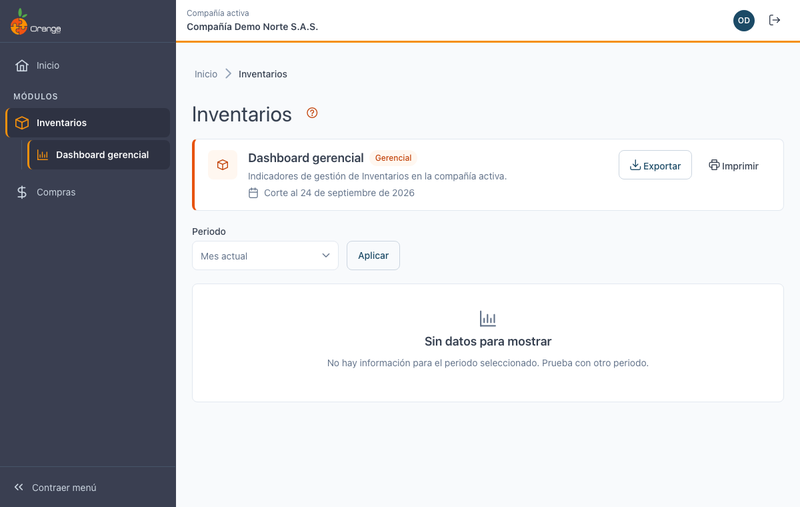
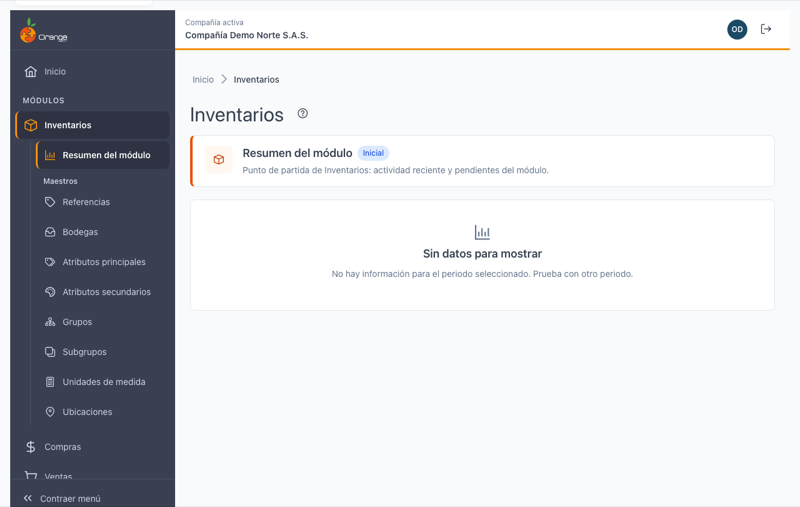
docs(inventarios): manual del dashboard gerencial V2026 y actualización del dashboard inicial

diff --git a/v2026/inventarios/dashboard-gerencial.md b/v2026/inventarios/dashboard-gerencial.md
@@ -1,0 +1,308 @@
+[Regresar a Inventarios](readme.md)
+
+---
+
+# 📈 Dashboard gerencial de Inventarios
+
+![Static Badge](https://img.shields.io/badge/Tipo-Dashboard-red)
+![Static Badge](https://img.shields.io/badge/Module-Inventarios-orange)
+![Static Badge](https://img.shields.io/badge/Opcion-DashboardGerencial-green)
+![Static Badge](https://img.shields.io/badge/Version-V2026-purple)
+
+![Static Badge](https://img.shields.io/badge/Actualizacion-20260929-yellow)
+
+---
+
+## 📋 Descripción
+
+El **dashboard gerencial** muestra cuánto inventario tiene la compañía, dónde está y cuánto vale, **con corte al día anterior**. Reemplaza al reporte **Reportes Gerenciales › Inventarios** de la versión anterior de OrangeERP.
+
+En esta pantalla puede:
+
+- Ver cuatro **indicadores**: valor total, unidades, bodegas y referencias con saldo.
+- Analizar el inventario **por bodega, grupo y subgrupo** con rankings de barras, y profundizar con un clic (*drill-down*).
+- Consultar el **detalle** de cada combinación (bodega, referencia y variante) con su saldo y su valor.
+- **Exportar** ese detalle a Excel.
+
+Es solo de consulta: no modifica el inventario.
+
+> 💡 Si su perfil no tiene el reporte gerencial, al entrar a Inventarios verá el [Resumen del módulo](dashboard.md) en lugar de este dashboard.
+
+---
+
+## 🎯 Acceso
+
+1. En el menú principal, haga clic en **Inventarios**.
+2. Se abre el dashboard (en el menú aparece como **Dashboard gerencial**, la primera opción del módulo).
+
+---
+
+## 🖥 Pantalla principal
+
+![Dashboard gerencial de Inventarios](recursos/img/dashboard-gerencial/01-dashboard-gerencial.png)
+
+| Elemento | Para qué sirve |
+|----------|----------------|
+| **?** (junto al título) | Abre esta ayuda en un panel lateral, sin salir de la pantalla. |
+| **Información con corte al …** | La fecha de corte de lo que está viendo. Si es ayer, dice **(día anterior)**. |
+| **Calculado a las HH:MM** | La hora en que se calculó la información que ve. Ver *La hora de cálculo y Actualizar* más abajo. |
+| **Actualizar** | Vuelve a calcular la información con los movimientos registrados hasta ahora. |
+| **Exportar** | Descarga el detalle a Excel. Ver *Exportar a Excel* más abajo. |
+| **Fecha de corte**, **Bodega** y **Aplicar** | Filtros. Ver *Filtros* más abajo. |
+| **Indicadores** | Valor total, Unidades, Bodegas y Referencias. |
+| **Valor $ / Unidades** | Cambia la métrica de los rankings. |
+| **Bodega**, **Grupo**, **Subgrupo** | Rankings de barras con *drill-down*. |
+| **Detalle de combinaciones** | La tabla con cada combinación con saldo. |
+
+---
+
+## 📅 Fecha de corte: el día anterior
+
+Al entrar, el dashboard muestra la información **con corte al día anterior** (ayer, hasta el final del día) para todas las bodegas, sin que tenga que hacer nada. La banda de arriba lo dice: *"Información con corte al 28 de septiembre de 2026 (día anterior)"*.
+
+**¿Por qué ayer y no hoy?** El día anterior ya cerró: sus cifras no cambian mientras usted las mira. El día en curso cambia con cada venta, compra o traslado que se registra.
+
+"Ayer" y "hoy" se cuentan con la fecha de la compañía, no con la hora de su equipo: si trabaja desde otro país o de madrugada, el corte sigue siendo el día anterior de la compañía.
+
+### Ver el día en curso
+
+Puede elegir la fecha de **hoy** en **Fecha de corte** y hacer clic en **Aplicar**. Verá este aviso bajo los filtros:
+
+![Aviso del día en curso](recursos/img/dashboard-gerencial/02-dia-en-curso.png)
+
+> ⚠ *"Estás viendo el día en curso: la información puede cambiar mientras se registran movimientos. Pulsa Actualizar para recalcular."*
+
+La información del día en curso se recalcula sola cada **10 minutos**; para ver lo último en ese momento, haga clic en **Actualizar**. Al volver a una fecha pasada, el aviso desaparece.
+
+---
+
+## 🔎 Filtros
+
+| Filtro | Qué hace |
+|--------|----------|
+| **Fecha de corte** | Obligatoria. Por defecto, el día anterior. Puede elegir cualquier fecha hasta hoy; las fechas futuras no se pueden elegir. Si la borra, verá *"La fecha de corte es obligatoria"* y **Aplicar** queda deshabilitado. |
+| **Bodega** | Opcional. Vacío = **Todas las bodegas**. Escriba parte del código o del nombre para buscarla; se muestra como *Código - Nombre*. Con la **✕** vuelve a todas. |
+
+Los cambios en los filtros **no se aplican hasta hacer clic en Aplicar**. Al aplicar se limpian la selección de los rankings, la búsqueda del detalle y los rankings expandidos.
+
+> 💡 **Aplicar no vuelve a calcular.** Si la información de esa fecha ya estaba calculada, la usa tal cual (verá la misma hora en *Calculado a las*). Para recalcular, use **Actualizar**. Cambiar solo la bodega nunca recalcula.
+
+Si no hay existencias a la fecha y bodega elegidas, verá **"Sin inventario a la fecha de corte"**, con los filtros disponibles para cambiarlos:
+
+![Sin inventario a la fecha de corte](recursos/img/dashboard-gerencial/09-sin-inventario.png)
+
+---
+
+## 🕒 La hora de cálculo y Actualizar
+
+Calcular el inventario de toda la compañía puede tomar unos segundos. Por eso OrangeERP **calcula una vez por fecha de corte** y guarda el resultado: los demás usuarios de la compañía que consultan la misma fecha, y usted mismo al navegar por los rankings, el detalle o al exportar, usan ese mismo cálculo sin esperar.
+
+**Calculado a las HH:MM** indica cuándo se hizo ese cálculo. Puede ser anterior a la hora en que usted entró: por ejemplo, si otro usuario abrió el dashboard a las 7:15, usted verá *"Calculado a las 07:15"* aunque entre a las 10:42.
+
+| Fecha de corte | Cuándo se vuelve a calcular solo |
+|----------------|----------------------------------|
+| **Ayer u otra fecha pasada** | Como máximo **una vez al día**: el cálculo vale hasta el final del día siguiente. |
+| **Hoy** | Cada **10 minutos**. |
+
+### Documentos registrados con fecha pasada
+
+Un documento que se registra **con una fecha anterior** (por ejemplo, hoy se registra una compra con fecha de ayer) cambia el inventario de esa fecha. Si la información de esa fecha ya estaba calculada, **ese documento no aparece** en el dashboard hasta que:
+
+- haga clic en **Actualizar**, o
+- el cálculo se renueve solo (según la tabla anterior).
+
+Si sabe que se registraron documentos con fecha pasada, haga clic en **Actualizar** antes de revisar las cifras.
+
+### Actualizar
+
+![Actualizando la información](recursos/img/dashboard-gerencial/03-actualizando.png)
+
+1. Haga clic en **Actualizar** (en la banda de arriba).
+2. El botón muestra que está trabajando. Mientras tanto sigue viendo la información anterior; si tarda, aparece *"Calculando el inventario al …; puede tardar unos segundos"*.
+3. Al terminar, *Calculado a las* muestra la hora nueva y todo se recarga **sin perder** los filtros, la selección de los rankings, la búsqueda ni el orden del detalle.
+
+> ℹ Si alguien actualizó esa misma fecha hace **menos de un minuto**, se usa ese cálculo y la hora no cambia. Así, varios clics seguidos no recargan el sistema.
+
+> ℹ Esta pantalla **no se actualiza en vivo**: no verá los movimientos nuevos hasta que la información se recalcule. Si mientras navega la información se recalcula (por ejemplo, porque otro usuario hizo clic en Actualizar), los indicadores y los rankings se recargan solos para que todo corresponda al mismo cálculo.
+
+---
+
+## 📊 Indicadores
+
+| Indicador | Qué muestra |
+|-----------|-------------|
+| **Valor total** | Suma del valor (saldo × costo promedio) de todas las combinaciones con saldo, en pesos sin decimales. |
+| **Unidades** | Suma de los saldos. |
+| **Bodegas** | Cuántas bodegas tienen saldo. |
+| **Referencias** | Cuántas referencias tienen saldo. |
+
+Los indicadores responden a la **fecha de corte** y a la **bodega** del filtro, **no** a la selección de los rankings: al hacer clic en una barra, los indicadores no cambian.
+
+> ℹ Si hay **saldos negativos** (se vendió o trasladó más de lo que había registrado), se suman tal cual: restan del valor total y de las unidades.
+
+---
+
+## 📶 Rankings por bodega, grupo y subgrupo
+
+![Rankings por bodega, grupo y subgrupo](recursos/img/dashboard-gerencial/04-rankings.png)
+
+Cada panel muestra una barra por bodega, grupo o subgrupo (*Código - Nombre*), ordenadas de mayor a menor. El largo de la barra es proporcional a la mayor del panel.
+
+- Se ven las **10 primeras**. Con **Ver detalle (+N)** se ven todas; con **Ver menos**, vuelven las 10.
+- Una barra con valor **negativo** muestra el signo menos y sin relleno.
+- Si un panel no tiene datos para la selección, dice **"Sin datos"**.
+
+### Métrica: Valor $ o Unidades
+
+Con **Valor $** (por defecto) las barras se ordenan por valor; con **Unidades**, por cantidad. Cambiar la métrica es inmediato y conserva la selección.
+
+![Rankings por unidades](recursos/img/dashboard-gerencial/06-metrica-unidades.png)
+
+### Profundizar (*drill-down*)
+
+![Selección de bodega, grupo y subgrupo](recursos/img/dashboard-gerencial/05-drill-down-subgrupo.png)
+
+1. Haga clic en una **bodega**: el panel **Grupo** y el panel **Subgrupo** muestran solo lo de esa bodega, y el detalle se filtra.
+2. Haga clic en un **grupo**: el panel **Subgrupo** muestra los subgrupos de ese grupo, y el detalle se filtra.
+3. Haga clic en un **subgrupo**: el detalle muestra solo ese subgrupo.
+
+La selección aparece arriba de los paneles como etiquetas, por ejemplo **Bodega: 01 - Bodega principal ✕**.
+
+- Un **segundo clic** en la barra seleccionada la deselecciona.
+- La **✕** de una etiqueta quita ese nivel **y los siguientes** (quitar la bodega quita también el grupo y el subgrupo).
+- Los subtítulos de cada panel indican qué está mostrando (por ejemplo *Todas las bodegas* o *Seleccione bodega y grupo*).
+
+Profundizar **no recalcula** la información: usa el mismo cálculo (misma hora en *Calculado a las*).
+
+También puede usar el teclado: **Tab** para ir de barra en barra y **Enter** o **Espacio** para seleccionarla.
+
+---
+
+## 📋 Detalle de combinaciones
+
+![Detalle de combinaciones con búsqueda](recursos/img/dashboard-gerencial/07-detalle-busqueda.png)
+
+Una fila por cada **bodega + referencia + variante** con saldo distinto de cero, filtrada por la bodega del filtro y por la selección de los rankings.
+
+| Columna | Qué muestra |
+|---------|-------------|
+| **Bodega**, **Grupo**, **Subgrupo** | *Código - Nombre*. |
+| **Referencia**, **Nombre** | Código y nombre de la referencia. |
+| **At. principal**, **At. secundario** | Los atributos de la variante (por ejemplo talla y color). |
+| **Saldo** | Existencias a la fecha de corte, con hasta 2 decimales (0,4 se ve como 0,4). |
+| **Valor** | Saldo × costo promedio, en pesos. |
+
+- **Buscar**: escriba al menos **2 caracteres**. Encuentra la referencia si su **código contiene** el texto o si **cada palabra** aparece en el nombre, sin importar mayúsculas ni tildes: *"camiseta cuello"* encuentra *"Camiseta básica cuello redondo"*. Si no hay coincidencias, use **Limpiar búsqueda**.
+- **Ordenar**: clic en un encabezado (ascendente, y un segundo clic descendente). Los atributos no se ordenan. Por defecto: bodega, grupo, subgrupo y referencia.
+- **Paginar**: 20 filas por página (puede elegir 10, 20, 50 o 100).
+
+> 📘 La búsqueda, el orden y la paginación funcionan como en el resto de las tablas: ver [Manejo general de la información](../Generales/manejo-general-informacion.md).
+
+---
+
+## 📤 Exportar a Excel
+
+Haga clic en **Exportar** (en la banda de arriba). Se descarga `inventario-gerencial_AAAA-MM-DD.xlsx` (con la fecha de corte), hoja **Detalle**, con **lo que está viendo en el detalle**, completo y no solo la página visible:
+
+- la fecha de corte y la bodega aplicadas,
+- la selección de los rankings,
+- la búsqueda y el orden del detalle.
+
+El archivo trae el código y el nombre por separado (bodega, grupo, subgrupo, referencia y atributos) y **Saldo**, **Costo unitario** y **Valor** como números, listos para sumar o filtrar en Excel. Usa el mismo cálculo que la pantalla (no recalcula).
+
+Se pueden exportar hasta **50.000 combinaciones**. Si el detalle tiene más, verá:
+
+![Demasiadas combinaciones para exportar](recursos/img/dashboard-gerencial/08-exportar-demasiado.png)
+
+> *"Hay más de 50.000 combinaciones; acota con la bodega o la selección"*
+
+Elija una bodega en el filtro, seleccione una bodega, grupo o subgrupo en los rankings, o busque en el detalle, y exporte de nuevo.
+
+---
+
+## 🔒 Permisos
+
+| Para… | Su perfil necesita |
+|-------|--------------------|
+| Ver este dashboard | Permiso de **Consultar** sobre **Reportes Gerenciales**, su grupo de reportes y la opción **Inventarios** (además del acceso al módulo Inventarios). Sin ese permiso, verá el [Resumen del módulo](dashboard.md). |
+| **Actualizar** | El mismo permiso de consultar. |
+| **Exportar** | Además, el permiso de **Exportar** sobre la opción **Inventarios** de Reportes Gerenciales. Sin él, el botón **Exportar** no aparece. |
+
+El filtro **Bodega** muestra todas las bodegas de la compañía aunque su perfil no tenga acceso a la pantalla de Bodegas.
+
+Si su perfil perdió el permiso, verá **"No tienes acceso a este dashboard"**. Pida al administrador que lo revise.
+
+> 🗂 Cada consulta (al entrar, al Aplicar, al Actualizar) queda registrada en la bitácora de actividad con el usuario, la fecha de corte y la bodega consultadas.
+
+---
+
+## 🔀 Diferencias con el Reporte Gerencial anterior
+
+Si compara con el reporte **Reportes Gerenciales › Inventarios** de la versión anterior, verá algunas diferencias. Son intencionales:
+
+### El valor usa el costo promedio móvil (cuadra con contabilidad)
+
+El **valor** de cada combinación es **saldo × costo promedio móvil**: cada vez que entra mercancía, el costo se recalcula ponderando **lo que queda en existencia** con lo que entra. Es el mismo costo que:
+
+- se usa para contabilizar el **costo de ventas** de cada venta, y
+- muestra la **pestaña Inventario** de cada referencia (ver [Detalle de una referencia](maestros/referencias-detalle.md), pestaña **Inventario**).
+
+El reporte anterior promediaba **todas las compras de la historia**, incluidas las unidades que ya se vendieron. Por eso daba **otro valor** (en general, menor cuando los precios de compra suben) que no cuadraba con la contabilidad.
+
+**Ejemplo (ficticio):** de un producto se compraron 24 unidades a $25.000 y se vendieron 20; quedan 4. Luego entran 5 unidades a $150.000.
+
+| | Cálculo | Costo unitario |
+|---|---|---|
+| **Este dashboard** (lo que hay en bodega: 4 a $25.000 y 5 a $150.000) | (4 × 25.000 + 5 × 150.000) ÷ 9 | **$94.444,44** |
+| **Reporte anterior** (todas las compras, aunque ya se vendieron) | (24 × 25.000 + 5 × 150.000) ÷ 29 | $46.552 |
+
+Además, el costo se muestra con 2 decimales (el reporte anterior lo redondeaba a pesos).
+
+### Entradas cuando el saldo estaba en cero o negativo
+
+Cuando se vende sin existencias registradas (el saldo queda en cero o negativo) y luego entra mercancía, la fórmula del costo promedio de la versión anterior podía dar **costos negativos o absurdos**. En V2026, **si el saldo antes de una entrada es cero o negativo, el costo pasa a ser el de esa entrada**, que es la regla estándar del inventario permanente.
+
+**Ejemplo (ficticio):** se vendieron 3 unidades sin existencias (saldo −3) y luego entran 2 a $260.000. La versión anterior calculaba un costo de −$520.000; V2026 toma $260.000.
+
+> ⚠ En esos casos (pocos productos, los que tuvieron saldo negativo), el costo de V2026 puede **no coincidir** con el que la versión anterior ya dejó contabilizado en esos movimientos. V2026 no modifica la contabilidad ya registrada. La pestaña Inventario de las referencias usa la misma regla, así que ambas pantallas muestran el mismo costo.
+
+### Otras diferencias
+
+| Tema | Reporte anterior | Este dashboard |
+|------|------------------|----------------|
+| Fecha al entrar | Hoy (hora del servidor) | **Ayer**, con la fecha de la compañía, y aviso si elige hoy |
+| Fechas futuras | Se aceptaban | No se pueden elegir |
+| Clic en un subgrupo | No hacía nada | Filtra el detalle |
+| Saldos con decimales | Se veían como 0 | Se ven con hasta 2 decimales |
+| Bodegas de otra compañía | Podían aparecer | Solo las de la compañía |
+| Existencias | Podían faltar algunas, según cortes guardados que no estaban al día | Se calculan con todos los movimientos hasta la fecha de corte |
+| Exportar | No existía | Excel del detalle, hasta 50.000 combinaciones |
+| Imprimir | — | No disponible |
+
+---
+
+## ❓ Preguntas frecuentes
+
+**¿Por qué no veo un documento que acabo de registrar?**
+Si el documento es de **hoy**, elija la fecha de hoy y haga clic en **Actualizar**. Si tiene **fecha pasada** (dentro del corte que está viendo), haga clic en **Actualizar**: el cálculo guardado no lo incluía. Ver *Documentos registrados con fecha pasada* más arriba.
+
+**¿Por qué "Calculado a las" muestra una hora anterior a la que entré?**
+Porque usa el cálculo que ya estaba hecho para esa fecha (quizá lo pidió otro usuario). Si necesita lo más reciente, haga clic en **Actualizar**.
+
+**Hice clic en Actualizar y la hora no cambió.**
+Alguien acababa de recalcular esa fecha hace menos de un minuto; se usó ese cálculo.
+
+**La carga tarda y dice "Calculando el inventario…".**
+Es el primer cálculo de esa fecha. Puede tardar unos segundos; las siguientes consultas de esa fecha son inmediatas.
+
+**¿Por qué el valor no coincide con el reporte gerencial anterior?**
+Porque este dashboard usa el costo promedio móvil, el mismo de la contabilidad y de la pestaña Inventario de las referencias. Ver *Diferencias con el Reporte Gerencial anterior* más arriba.
+
+**Al hacer clic en una bodega, los indicadores no cambian.**
+Es así a propósito: los indicadores responden a los filtros (fecha y bodega). Para ver los indicadores de una sola bodega, elíjala en el filtro **Bodega** y haga clic en **Aplicar**.
+
+**No veo el botón Exportar.**
+Su perfil no tiene el permiso de exportar sobre el reporte gerencial de Inventarios.
+
+**Una sección dice "No se pudo cargar esta sección."**
+Haga clic en **Reintentar** dentro de esa sección; el resto del dashboard sigue funcionando. Si todo el dashboard muestra *"No se pudo cargar el dashboard"*, use **Reintentar**.

diff --git a/v2026/inventarios/dashboard.md b/v2026/inventarios/dashboard.md
@@ -7,7 +7,7 @@
 ![Static Badge](https://img.shields.io/badge/Module-Inventarios-orange)
 ![Static Badge](https://img.shields.io/badge/Version-V2026-purple)
 
-![Static Badge](https://img.shields.io/badge/Actualizacion-20260925-yellow)
+![Static Badge](https://img.shields.io/badge/Actualizacion-20260929-yellow)
 
 ---
 
@@ -15,20 +15,22 @@
 
 Es la página de entrada del módulo **Inventarios**: al hacer clic en **Inventarios** en el menú, llega aquí.
 
-![Dashboard de Inventarios](recursos/img/dashboard/01-dashboard.png)
+![Resumen del módulo Inventarios](recursos/img/dashboard/01-dashboard.png)
 
 Según su perfil verá:
 
 | Tipo | Cuándo | Qué muestra |
 |------|--------|-------------|
-| **Dashboard gerencial** | Su perfil tiene el reporte gerencial de Inventarios. | Indicadores de gestión de Inventarios. |
-| **Resumen del módulo** (inicial) | No tiene el reporte gerencial. | Resumen operativo del módulo. |
+| **Dashboard gerencial** | Su perfil tiene permiso de consultar **Reportes Gerenciales › Inventarios**. | Valor, unidades, rankings por bodega, grupo y subgrupo, y detalle del inventario con corte al día anterior. Ver [Dashboard gerencial de Inventarios](dashboard-gerencial.md). |
+| **Resumen del módulo** (inicial) | No tiene ese permiso. | Resumen operativo del módulo (esta página). |
+
+La imagen de arriba es el **Resumen del módulo**.
 
 ---
 
-## 🚧 Estado actual
+## 🚧 Estado actual del Resumen del módulo
 
-En esta versión el dashboard muestra la franja del módulo (nombre, tipo y fecha de corte) y el mensaje **"Sin datos para mostrar"**: los indicadores y gráficas se habilitarán en próximas versiones. Los botones **Exportar** e **Imprimir** aparecen según sus permisos y se activan cuando haya datos.
+En esta versión el Resumen del módulo muestra la franja del módulo (nombre y tipo **Inicial**) y el mensaje **"Sin datos para mostrar"**: sus indicadores y gráficas se habilitarán en próximas versiones. Si necesita las cifras del inventario, pida al administrador el permiso del [Dashboard gerencial](dashboard-gerencial.md). Los botones **Exportar** e **Imprimir** aparecen deshabilitados según sus permisos y se activarán cuando haya datos.
 
 ---
 

diff --git a/v2026/inventarios/readme.md b/v2026/inventarios/readme.md
@@ -7,6 +7,7 @@
 Manuales de las pantallas de Inventarios en la nueva versión.
 
 - [Dashboard de Inventarios](dashboard.md)
+  - [Dashboard gerencial de Inventarios](dashboard-gerencial.md)
 
 ## Maestros
 
